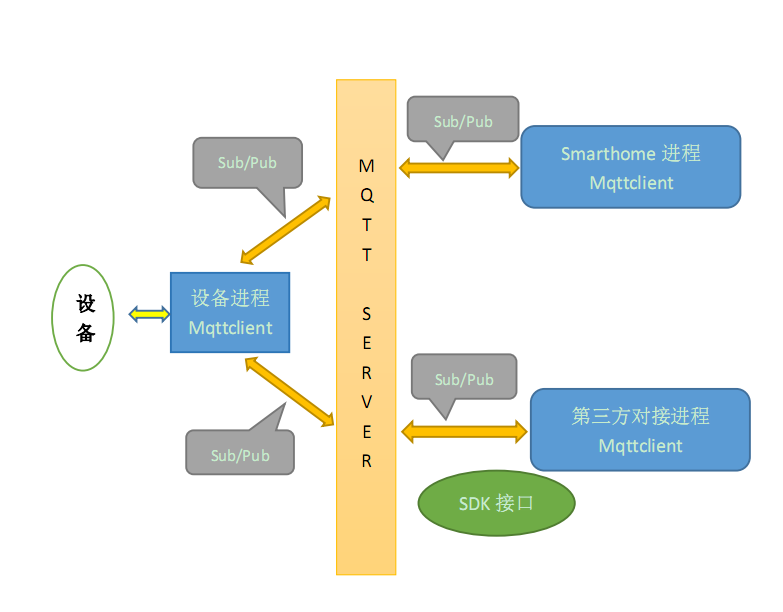
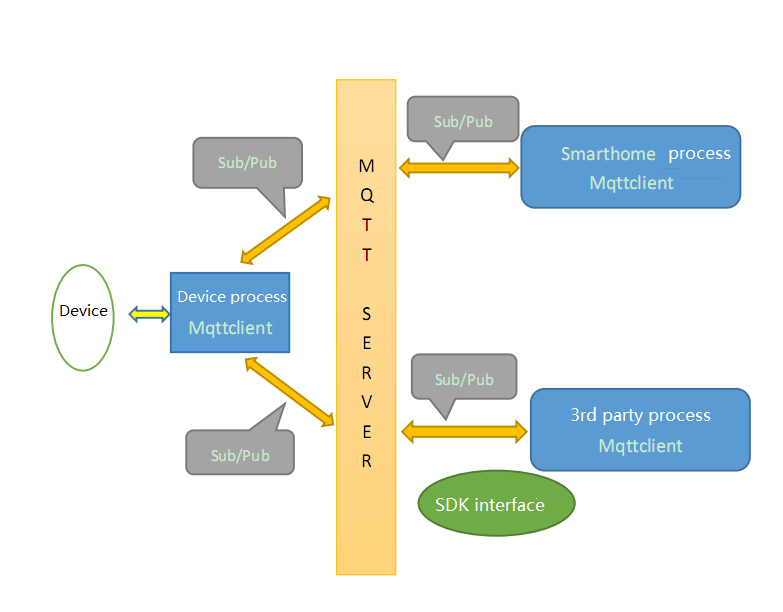
1.框图翻译 2.增加协议链接

diff --git a/library/03-Client Development/002-Camera Android_SDK_v6.md b/library/03-Client Development/002-Camera Android_SDK_v6.md
@@ -1,10 +1,10 @@
[1 lines of base64/hex data omitted]
 
-# 物联爱看Android
+# Wulian ICam Android
 
 # SDK
 
-# 接口文档
+# Interface document
 
 #
 

diff --git a/library/02-Gateway Development/01-Quick development guide.md b/library/02-Gateway Development/01-Quick development guide.md
@@ -26,9 +26,10 @@ The new generation (v6) gateway platform consists of device process, SmartHome_v
 ## Development process
 1. Connect gateway and development host machine with same router. Gateway WAN port by defalt does not enable telnet, need to connect router LAN cable to LAN port of the gateway and make sure the development host machine is configured in subnet 192.168.188.x.
 2. Use tools like putty and telnet access 192.168.188.1 on development host machine. By default user name is "root" and password is "wulian".
-3. Download [Gateway SDK](https://github.com/Wulian-WLink/GatewaySDK_v6.git) and develop 3rd party cloud process.
-4. After development is completed, download the firmware (the 3rd party cloud process) onto the gateway. The gateway supports tft and wget method for file transfer.
-5. Run the firmware (the 3rd party cloud process).
+3. Download [Gateway SDK](https://github.com/Wulian-WLink/GatewaySDK_v6.git).
+4. Refer to [Device data protocol](https://wulian-wlink.github.io/developers-center-en/?file=05-Device%20Protocol/01-Overview) and develop 3rd party cloud process firmware.
+5. After development is completed, download the firmware (the 3rd party cloud process) onto the gateway. The gateway supports tft and wget method for file transfer.
+6. Run the firmware (the 3rd party cloud process).
 
 ## ubuntu debug
 为提高开发效率，实现断点调试。用户可以将第三方云进程运行在ubuntu主机，设备进程运行在网关上，ubuntu和网关需在同一个局域网中。  从而实现第三方云进程代码使用qt或vs断点调试。  

diff --git a/library/01-Platform Introduction/001-Smart Home platform introduction.md b/library/01-Platform Introduction/001-Smart Home platform introduction.md
@@ -1,5 +1,5 @@
-# 平台介绍  
+# Platform introduction  
 
-物联智能家居平台从底层到上层可以分为终端层、主机层、服务层和客户端层。终端层负责对物理世界的感知和控制；主机层负责收集汇总终端层的数据，上报给服务层，并且负责基本的自动控制处理；服务层负责存储和分析终端的数据，并且负责支持全球范围客户端到主机的连接通道；客户端提供使用界面给最终用户，是智能家居系统与客户之间的接口。  
+Wulian Wlink Smart Home platfrom consists of terminal layer, host machine layer, service layer and client layer. Terminal layer is in charge of perception and control to physical world.; Host machine layer is in charge of collecting all data from terminals and report to service layer, and also in charge of basic automation control processing; Service layer is in charge of store and analysis of terminal data, and support piplines from client to host machine all over the world; Client layer is in charge of providing user interface to final user and act as a connection between smart home system and customers.
 
-![平台总架构](WLink/images/frame.png "架构框图")  
+![Platform architecture](WLink/images/frame.png "架构框图")  

diff --git a/library/03-Client Development/001-Quick development instruction.md b/library/03-Client Development/001-Quick development instruction.md
@@ -1,1 +1,1 @@
-敬请期待……
+Under construction……
